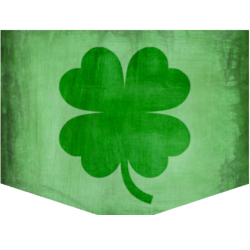
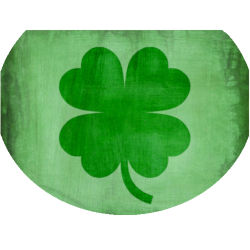
Bulk adds golden images and adjusts the clover image to fit in the power card frame.

diff --git a/src/main/java/robTheSpire/cards/StealACard.kt b/src/main/java/robTheSpire/cards/StealACard.kt
@@ -10,7 +10,7 @@ import robTheSpire.DefaultMod.Companion.makeID
 import robTheSpire.actions.StealCardAction
 import robTheSpire.characters.TheDefault.Enums.COLOR_GRAY
 
-class StealACard : AbstractDefaultCard(ID, cardStrings!!.NAME, makeCardPath("StealACard.png"), 2, cardStrings!!.DESCRIPTION, CardType.SKILL, COLOR_GRAY, CardRarity.BASIC, CardTarget.SELF) {
+class StealACard : AbstractDefaultCard(ID, cardStrings!!.NAME, makeCardPath("steal_a_card.png"), 2, cardStrings!!.DESCRIPTION, CardType.SKILL, COLOR_GRAY, CardRarity.BASIC, CardTarget.SELF) {
     override fun use(p: AbstractPlayer, m: AbstractMonster?) {
         addToBot(StealCardAction())
         println("Using StealACard!")

diff --git a/src/main/java/robTheSpire/cards/FlatSteal.kt b/src/main/java/robTheSpire/cards/FlatSteal.kt
@@ -10,7 +10,7 @@ import robTheSpire.actions.FlatGoldAction
 import robTheSpire.characters.TheDefault
 
 
-class FlatSteal : AbstractDynamicCard(ID, DefaultMod.makeCardPath("Pummel.png"), 1, CardType.ATTACK, TheDefault.Enums.COLOR_GRAY, CardRarity.COMMON, CardTarget.ENEMY) {
+class FlatSteal : AbstractDynamicCard(ID, DefaultMod.makeCardPath("normal_steal_skill.png"), 1, CardType.ATTACK, TheDefault.Enums.COLOR_GRAY, CardRarity.COMMON, CardTarget.ENEMY) {
     override fun use(p: AbstractPlayer, m: AbstractMonster) {
        addToBot(FlatGoldAction(m, magicNumber))
     }

diff --git a/src/main/java/robTheSpire/cards/Strike.kt b/src/main/java/robTheSpire/cards/Strike.kt
@@ -22,7 +22,7 @@ class Strike : AbstractDynamicCard(ID, IMG, COST, TYPE, COLOR, RARITY, TARGET) {
 
     companion object {
         @JvmField val ID: String = DefaultMod.makeID(Companion::class.java.enclosingClass.simpleName)
-        val IMG: String = DefaultMod.makeCardPath("Attack.png")
+        val IMG: String = DefaultMod.makeCardPath("strike.png")
         private val RARITY = CardRarity.BASIC
         private val TARGET = CardTarget.ENEMY
         private val TYPE = CardType.ATTACK
